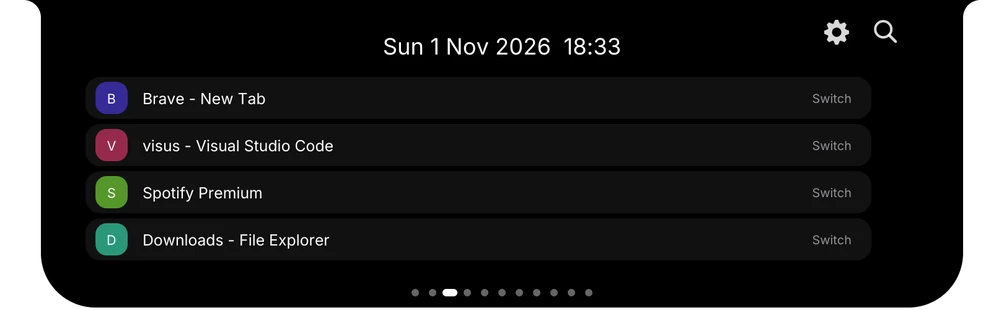
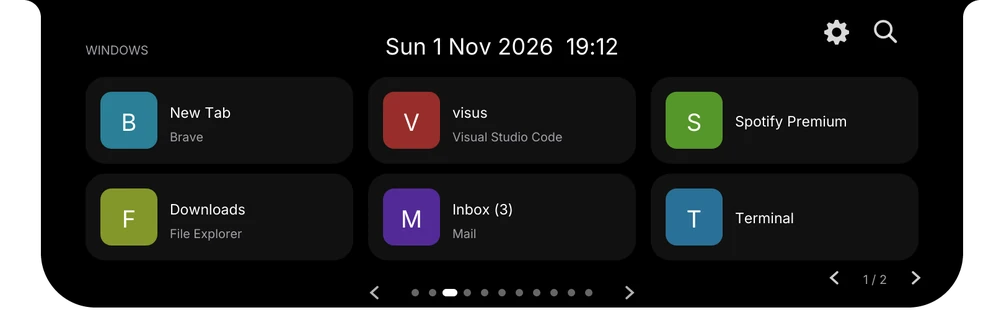
Windows card grid; v1.7.0

diff --git a/crates/visus-app/src/ui.rs b/crates/visus-app/src/ui.rs
@@ -3,7 +3,7 @@ use tiny_skia::{
     SpreadMode, FilterQuality, Pattern,
     Stroke, Transform, LineCap,
 };
-use visus_core::{Alert, AppKind, ClockStyle, Radio, EyeMood, EyeState, EyeStyle, Kind, Lyrics, Notch, Outcome, Page, Rect, Rgb, Shape, UpdateStatus, current_index, weather_label};
+use visus_core::{Alert, AppKind, ClockStyle, Radio, EyeMood, EyeState, EyeStyle, Kind, Lyrics, Notch, Outcome, Page, Rect, Rgb, Shape, UpdateStatus, WIN_GRID, current_index, weather_label};
 
 use crate::text::{Align, Text};
 
@@ -58,6 +58,8 @@ pub enum Button {
     Downloads,
     PagePrev,
     PageNext,
+    WinPrev,
+    WinNext,
 }
 
 #[derive(Clone, Copy, Debug, PartialEq, Eq)]
@@ -267,6 +269,17 @@ fn draw_list(cx: &mut Ctx, notch: &Notch, items: &[String], empty: (&str, &str, 
     }
 }
 
+/// Card slot `i` (0..6) of the 3x2 window grid.
+fn win_card(x0: f32, i: usize) -> Rect {
+    let (col, row) = ((i % 3) as f32, (i / 3) as f32);
+    rect(x0 + 36.0 + col * 228.0, 62.0 + row * 78.0, 216.0, 70.0)
+}
+
+/// Splits "document - Application" so the card can show both.
+fn split_title(title: &str) -> (&str, &str) {
+    title.rsplit_once(" - ").or_else(|| title.rsplit_once(" \u{2014} ")).map_or((title, ""), |(doc, app)| (doc, app))
+}
+
 fn draw_windows(cx: &mut Ctx, notch: &Notch, a: f32) {
     let r = notch.shape().rect;
     let (x0, mid) = (r.x, r.x + r.w / 2.0);
@@ -275,16 +288,32 @@ fn draw_windows(cx: &mut Ctx, notch: &Notch, a: f32) {
         cx.t("Looking for open windows\u{2026}", mid, 140.0, 20.0, color(GRAY, a), Align::Center);
         return;
     }
-    for (i, (_, title)) in wins.iter().take(LIST_ROWS).enumerate() {
-        let y = 62.0 + i as f32 * 38.0;
-        cx.rrect(rect(x0 + 36.0, y, 634.0, 34.0), 12.0, color(WHITE, 0.07 * a));
-        tile_letter(cx, rect(x0 + 44.0, y + 4.0, 26.0, 26.0), title, a);
-        let shown = cx.fit(title, 15.0, 560.0);
-        cx.t(&shown, x0 + 82.0, y + 22.0, 15.0, color(WHITE, a), Align::Left);
-        cx.t("Switch", x0 + 654.0, y + 21.0, 12.0, color(GRAY, 0.9 * a), Align::Right);
+    let first = notch.win_page() * WIN_GRID;
+    for (slot, (_, title)) in wins.iter().skip(first).take(WIN_GRID).enumerate() {
+        let rc = win_card(x0, slot);
+        let (doc, app) = split_title(title);
+        cx.rrect(rc, 16.0, color(WHITE, 0.07 * a));
+        tile_letter(cx, rect(rc.x + 12.0, rc.y + 12.0, 46.0, 46.0), if app.is_empty() { doc } else { app }, a);
+        let tw = rc.w - 76.0;
+        let top = cx.fit(doc, 14.0, tw);
+        cx.t(&top, rc.x + 68.0, rc.y + if app.is_empty() { 40.0 } else { 33.0 }, 14.0, color(WHITE, a), Align::Left);
+        if !app.is_empty() {
+            let sub = cx.fit(app, 12.0, tw);
+            cx.t(&sub, rc.x + 68.0, rc.y + 52.0, 12.0, color(GRAY, a), Align::Left);
+        }
     }
-    if wins.len() > LIST_ROWS {
-        cx.t(&format!("+{} more \u{b7} type a name in the launcher", wins.len() - LIST_ROWS), x0 + 670.0, 222.0, 12.0, color(GRAY, 0.8 * a), Align::Right);
+    if wins.len() > WIN_GRID {
+        let pages = wins.len().div_ceil(WIN_GRID);
+        for (dir, x) in [(-1.0f32, x0 + 640.0), (1.0, x0 + 706.0)] {
+            let mut pb = PathBuilder::new();
+            pb.move_to(x - 2.5 * dir, 224.0 - 4.5);
+            pb.line_to(x + 2.5 * dir, 224.0);
+            pb.line_to(x - 2.5 * dir, 224.0 + 4.5);
+            if let Some(p) = pb.finish() {
+                cx.stroke(&p, color(WHITE, 0.8 * a), 1.8);
+            }
+        }
+        cx.t(&format!("{} / {}", notch.win_page() + 1, pages), x0 + 673.0, 229.0, 12.0, color(GRAY, a), Align::Center);
     }
 }
 
@@ -507,7 +536,15 @@ fn page_buttons(notch: &Notch, x0: f32, cx: f32) -> Vec<(Button, Rect)> {
             }
             v
         }
-        Page::Windows => (0..notch.windows().len().min(LIST_ROWS)).map(|i| (Button::WindowFocus(i), rect(x0 + 36.0, 62.0 + i as f32 * 38.0, 634.0, 34.0))).collect(),
+        Page::Windows => {
+            let first = notch.win_page() * WIN_GRID;
+            let mut v: Vec<_> = (first..notch.windows().len().min(first + WIN_GRID)).map(|i| (Button::WindowFocus(i), win_card(x0, i - first))).collect();
+            if notch.windows().len() > WIN_GRID {
+                v.push((Button::WinPrev, rect(x0 + 624.0, 212.0, 32.0, 24.0)));
+                v.push((Button::WinNext, rect(x0 + 690.0, 212.0, 32.0, 24.0)));
+            }
+            v
+        }
         Page::Calendar => event_buttons(notch, x0),
         Page::Timer => timer_buttons(x0),
         Page::Todo => todo_buttons(notch, x0),
@@ -1886,6 +1923,8 @@ pub fn click(notch: &mut Notch, x: f32, y: f32) -> Outcome {
                     return Outcome::OpenUrl(url);
                 }
             }
+            Button::WinPrev => notch.win_step(-1),
+            Button::WinNext => notch.win_step(1),
             Button::PagePrev => notch.next_page(-1),
             Button::PageNext => notch.next_page(1),
             Button::NetUnit => notch.update_settings(|s| s.net_bits = !s.net_bits),

diff --git a/crates/visus-core/src/notch.rs b/crates/visus-core/src/notch.rs
@@ -36,6 +36,9 @@ impl Page {
     pub const ALL: [Page; 11] = [Page::Music, Page::Control, Page::Windows, Page::Timer, Page::Stats, Page::Shelf, Page::Todo, Page::Notes, Page::Clipboard, Page::Calendar, Page::Weather];
 }
 
+/// Windows shown per page of the Windows grid.
+pub const WIN_GRID: usize = 6;
+
 /// Short-lived expressions the awake eye cycles through.
 #[derive(Clone, Copy, Debug, PartialEq, Eq)]
 pub enum EyeMood {
@@ -196,6 +199,7 @@ pub struct Notch {
     alert_text: Option<String>,
     windows: Vec<(isize, String)>,
     windows_asked: Instant,
+    win_page: usize,
     pointer: Option<(f32, f32)>,
     toast: Option<(String, Instant)>,
     drop_hover: bool,
@@ -273,6 +277,7 @@ impl Notch {
             alert_text: None,
             windows: Vec::new(),
             windows_asked: Instant::now() - Duration::from_secs(60),
+            win_page: 0,
             pointer: None,
             toast: None,
             drop_hover: false,
@@ -482,6 +487,16 @@ impl Notch {
     /// The event a meeting alert is about.
     pub fn windows(&self) -> &[(isize, String)] {
         &self.windows
+    }
+
+    /// Current page of the window grid, clamped to the number of windows.
+    pub fn win_page(&self) -> usize {
+        self.win_page.min(self.windows.len().saturating_sub(1) / WIN_GRID)
+    }
+
+    pub fn win_step(&mut self, delta: i32) {
+        let pages = self.windows.len().div_ceil(WIN_GRID).max(1) as i32;
+        self.win_page = (self.win_page() as i32 + delta).rem_euclid(pages) as usize;
     }
 
     /// True every couple of seconds while the Windows page is open, so the host refreshes the list.

diff --git a/crates/visus-app/src/main.rs b/crates/visus-app/src/main.rs
@@ -550,7 +550,7 @@ fn snapshot(page: &str, out: &str, query: Option<&str>) {
         }
     }
     if page == "windows" {
-        notch.handle(Event::Windows(Arc::new(vec![(1, "Brave - New Tab".into()), (2, "visus - Visual Studio Code".into()), (3, "Spotify Premium".into()), (4, "Downloads - File Explorer".into())])));
+        notch.handle(Event::Windows(Arc::new(vec![(1, "New Tab - Brave".into()), (2, "visus - Visual Studio Code".into()), (3, "Spotify Premium".into()), (4, "Downloads - File Explorer".into()), (5, "Inbox (3) - Mail".into()), (6, "Terminal".into()), (7, "Roadmap.pdf - Document Viewer".into()), (8, "Lo-fi beats - YouTube - Brave".into())])));
     }
     if page == "shelf" {
         notch.set_shelf(vec!["/home/devdad/Projects/visus/Cargo.toml".into(), "/usr/bin/ls".into(), "/tmp/missing-report.pdf".into()]);

diff --git a/crates/visus-core/src/lib.rs b/crates/visus-core/src/lib.rs
@@ -24,5 +24,6 @@ pub use settings::{Rgb, Settings};
 pub use palette::{Action, App, AppKind, guess_kind, Command, Item, Kind, Outcome, Palette, MAX_RESULTS};
 pub use extras::{UpdateStatus, Weather, is_newer, weather_label};
 pub use settings::{ClockStyle, EyeStyle};
+pub use notch::WIN_GRID;
 pub use stats::Stats;
 pub use todo::{Todo, parse_task};

diff --git a/PLAN.md b/PLAN.md
@@ -116,6 +116,7 @@ Rule: `visus-core` must stay free of platform and rendering dependencies.
    v1.5.1: app icon (indigo-to-blue tile, black notch with the eye; generated by tools/make_icon.py into assets/visus.ico, embedded with winresource in build.rs, also the installer and tray icon), snappier media (cover art loads on a side thread so title/artist update instantly, session manager cached for play/pause/skip, optimistic play/pause, 200 ms progress refresh, lyric sources queried in parallel with a 5 s timeout, online cover lookup waits 1.2 s for the player's own art).
    v1.6.0: accent theme (buttons, toggles, rings, chips and highlights use the cover colour while music plays, easing back to the eye colour (default blue) when nothing plays; semantic colours such as the battery ring and Charging/Online alerts stay green; text on the accent flips black/white by luminance; `VISUS_ART=r,g,b` previews a cover colour in snapshots). Includes the 1.5.1 icon and media-speed work.
    v1.7.0: clock styles (Classic/Flip/LED, setting + Clock chip), spinning vinyl with the cover as its label, horizontal wave backdrop (f32 time fix via `anim_secs`), idle pill 16px narrower (grows for visualizer/download), hover-rect fixes, website in `docs/` (Pages workflow, live release lookup). Capture hooks: `VISUS_CLOCK`, `VISUS_TICKS`, `VISUS_ANIM_T`, `VISUS_ART=1,2,3` (synth cover).
+   v1.7.0: clock styles (Classic/Flip/LED; Clock chip in settings), spinning vinyl with the cover as its label, looping horizontal wave backdrop (`anim_secs` f32 fix), idle pill 16px narrower (grows for visualizer/download), page titles + left/right arrows beside the page dots, Windows page is a paged 3x2 card grid (`WIN_GRID`, doc/app split of the title, in-page pager), website in `docs/` with Pages workflow. Capture hooks: `VISUS_CLOCK`, `VISUS_TICKS`, `VISUS_ANIM_T`, `VISUS_ART=1,2,3` (synth cover).
    Still to do: real audio-driven visualizer (WASAPI loopback / PipeWire), lyrics fallback source, user-configurable hotkey, Linux global hotkey without compositor binding, Wayland drag-and-drop.
 2. Bluetooth/brightness HUDs, notifications center, calendar events, shelf drag-out.
 3. Plugin host behind a data-driven page registry; more eye styles; macOS port; installer/Store packaging.
